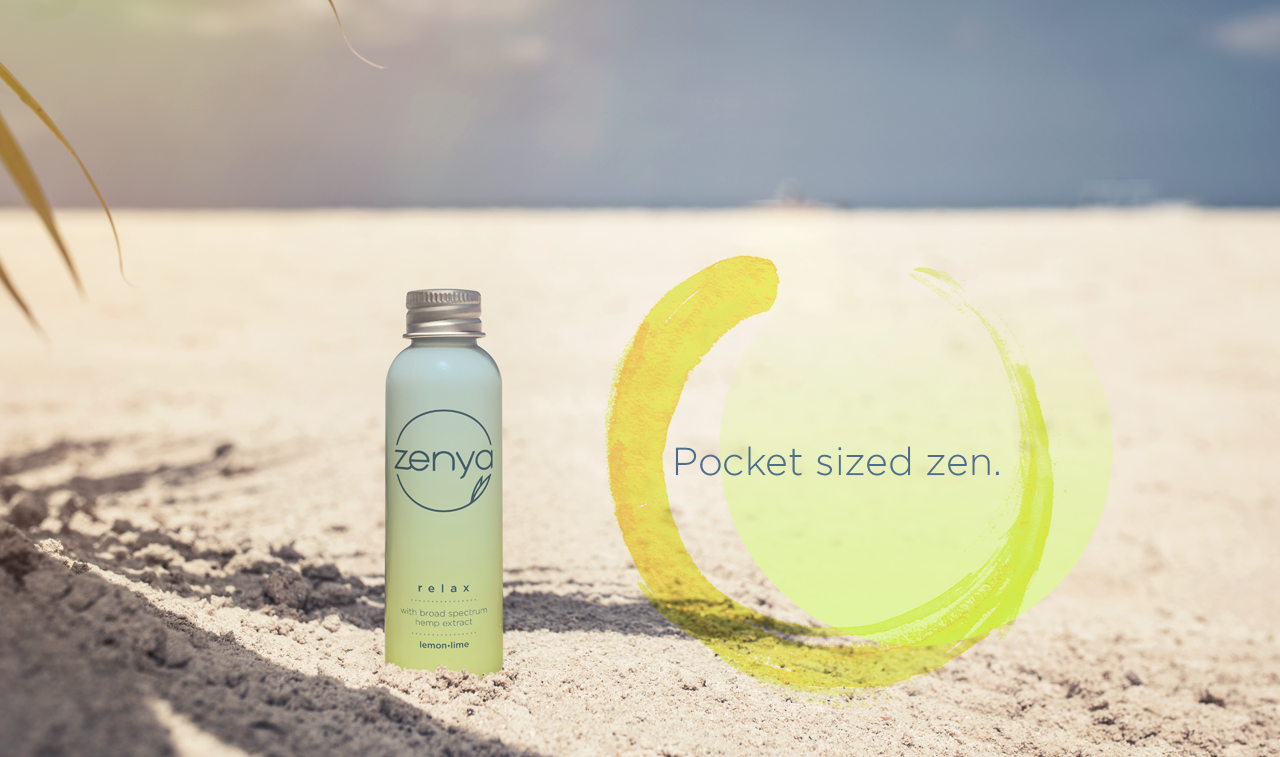
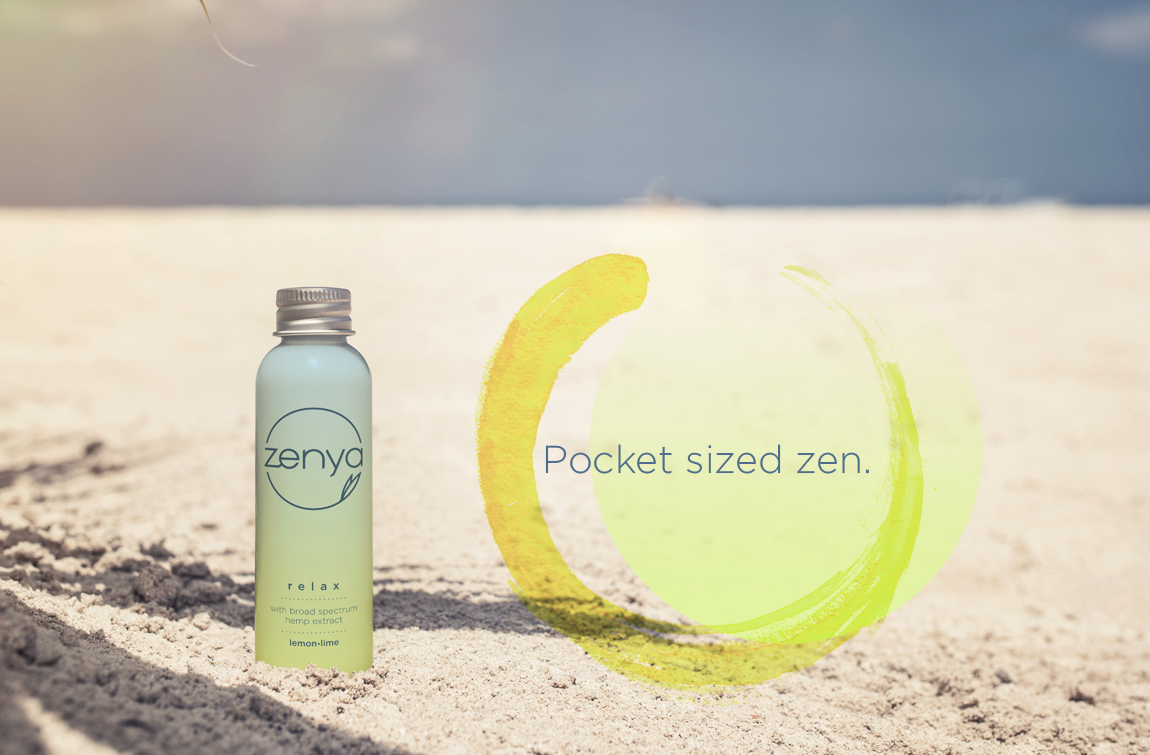
resizes images

diff --git a/public/style.css b/public/style.css
@@ -41,10 +41,12 @@ p,
 } */
 .navbars,
 .topImg {
-  background-image: url('./images/nav.png');
   background-repeat: no-repeat;
   background-position: center center;
   background-size: cover;
+}
+.topImg {
+  background-image: url('./images/bgImgTop.png');
 }
 .page .home {
   display: flex;
@@ -289,6 +291,9 @@ p,
     padding-right: 15px;
     left: 50%;
   }
+  .topImg {
+    height: 40vh;
+  }
 }
 
 @media only screen and (min-device-width: 481px) {
@@ -318,6 +323,9 @@ p,
   .smallP {
     font-size: 2.7vmin;
   }
+  .topImg {
+    height: 60vh;
+  }
 }
 @media only screen and (min-device-width: 708px) {
   .small {
@@ -345,5 +353,8 @@ p,
   }
   .smallP {
     font-size: 2.7vmin;
+  }
+  .topImg {
+    height: 100vh;
   }
 }

diff --git a/client/components/user-home.js b/client/components/user-home.js
@@ -8,11 +8,7 @@ import {WhyCBD} from './whyCBD'
 export const UserHome = props => {
   return (
     <div className="wrapper">
-      <img
-        src="/images/bgImgTop.png"
-        width="100%"
-        className="topImg img-fluid"
-      />
+      <div className="topImg"></div>
       <div id="aboutUs" className="quotesContain">
         <img src="/images/aboutUsMobile.png" className="small img-fluid" />
         <img
